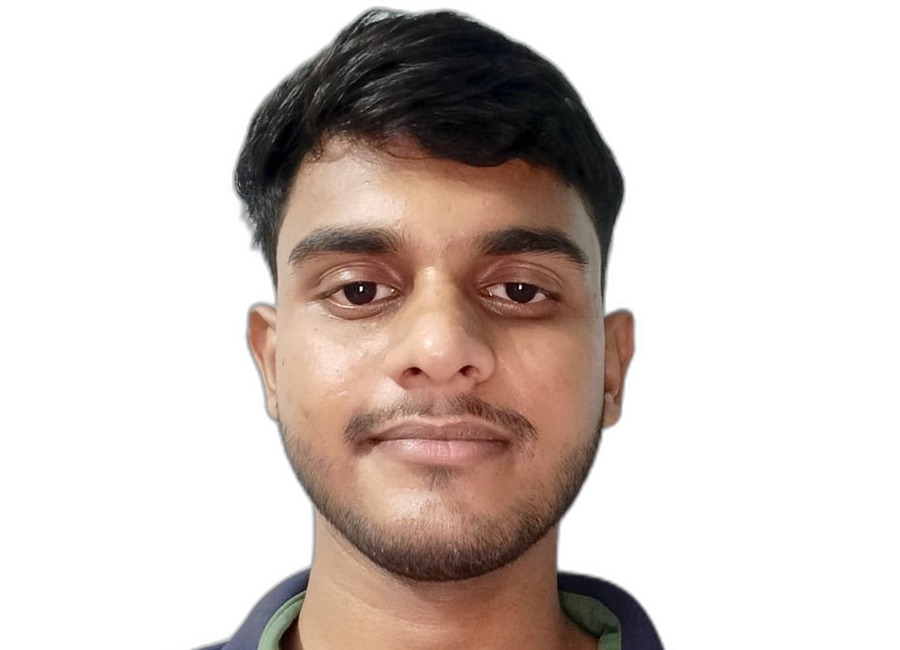
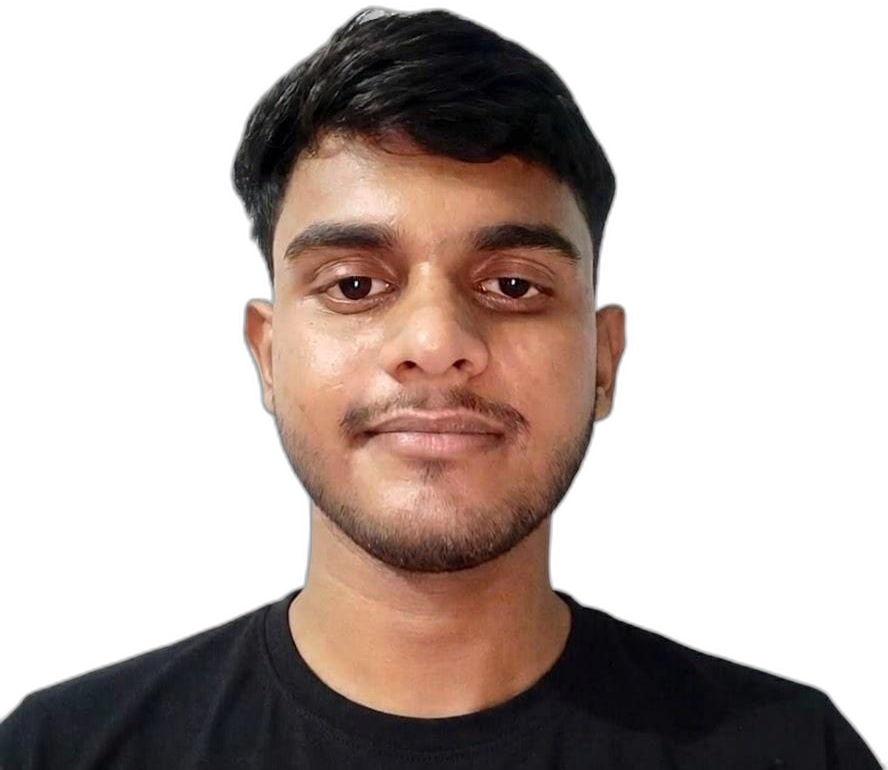
Fix section padding/insets, resize hero photo, wider nav spacing, new profile photo

diff --git a/portfolio/style.css b/portfolio/style.css
@@ -228,7 +228,7 @@ img { max-width: 100%; display: block; }
 .nav2-inner {
   max-width: var(--max-wide);
   margin: 0 auto;
-  padding: 1rem 1.5rem;
+  padding: 1rem clamp(1.5rem, 4.5vw, 4.5rem);
   display: flex;
   align-items: center;
   justify-content: space-between;
@@ -258,8 +258,8 @@ img { max-width: 100%; display: block; }
 }
 .nav2-links {
   display: flex;
-  gap: 3.25rem; /* was 2rem — reference has noticeably more breathing
-    room between each nav item */
+  gap: 5rem; /* was 3.25rem — still noticeably tighter than the
+    reference's spacing */
   font-size: 0.92rem;
   font-weight: 500;
 }
@@ -361,7 +361,7 @@ img { max-width: 100%; display: block; }
   position: relative;
   z-index: 1;
   background: var(--hero-bg);
-  padding: 4rem 1.5rem 4.5rem;
+  padding: 4rem clamp(1.5rem, 4.5vw, 4.5rem) 4.5rem;
   text-align: center;
   overflow: hidden;
 }
@@ -421,8 +421,16 @@ img { max-width: 100%; display: block; }
   top: 42%;
   left: 50%;
   transform: translateX(-50%);
-  width: calc(var(--name-fit-size, 6rem) * 3);
-  max-width: 340px;
+  /* Height-driven sizing (was width-driven with object-fit:contain) —
+     that capped out at a fairly short box because the source photo's
+     own aspect ratio is wider than tall. Sizing by height + cropping
+     the sides with object-fit:cover instead lets the photo actually
+     reach down toward the role text like the reference, independent
+     of the source image's natural proportions. */
+  height: calc(var(--name-fit-size, 6rem) * 3.7);
+  width: calc(var(--name-fit-size, 6rem) * 2.85);
+  max-height: 480px;
+  max-width: 330px;
   z-index: 3; /* above the name text within this same stacking
     context — hero2-body (a later sibling, also z-index: 2) still
     paints on top of this whole section wherever they overlap, by
@@ -436,9 +444,10 @@ img { max-width: 100%; display: block; }
 }
 .hero2-photo-img {
   width: 100%;
-  height: auto;
+  height: 100%;
   display: block;
-  object-fit: contain;
+  object-fit: cover;
+  object-position: top center;
 }
 .hero2-photo-img-gray {
   position: relative;
@@ -455,7 +464,12 @@ img { max-width: 100%; display: block; }
   mask-image: radial-gradient(circle 90px at var(--reveal-x, -9999px) var(--reveal-y, -9999px), black 55%, transparent 100%);
 }
 @media (max-width: 620px) {
-  .hero2-photo { width: calc(var(--name-fit-size, 4rem) * 2.8); max-width: 220px; }
+  .hero2-photo {
+    height: calc(var(--name-fit-size, 4rem) * 3.4);
+    width: calc(var(--name-fit-size, 4rem) * 2.6);
+    max-height: 280px;
+    max-width: 215px;
+  }
   /* Touch devices have no hover/cursor — show full color instead of
      leaving the photo permanently grayscale with no way to reveal it */
   .hero2-photo-img-gray { display: none; }
@@ -577,7 +591,7 @@ img { max-width: 100%; display: block; }
   position: relative;
   z-index: 1;
   background: var(--hero-bg);
-  padding: 5rem 1.5rem 6rem;
+  padding: 5rem clamp(1.5rem, 4.5vw, 4.5rem) 6rem;
 }
 .work2-head {
   max-width: var(--max-wide);
@@ -812,7 +826,7 @@ img { max-width: 100%; display: block; }
   position: relative;
   z-index: 1;
   background: var(--hero-bg);
-  padding: 1rem 1.5rem 6rem;
+  padding: 1rem clamp(1.5rem, 4.5vw, 4.5rem) 6rem;
 }
 .log2-head {
   max-width: var(--max-wide);
@@ -919,7 +933,7 @@ img { max-width: 100%; display: block; }
   position: relative;
   z-index: 1;
   background: var(--hero-bg);
-  padding: 1rem 1.5rem 6rem;
+  padding: 1rem clamp(1.5rem, 4.5vw, 4.5rem) 6rem;
 }
 .about2-head {
   max-width: var(--max-wide);
@@ -1012,7 +1026,7 @@ img { max-width: 100%; display: block; }
   position: relative;
   z-index: 1;
   background: var(--hero-bg);
-  padding: 6rem 1.5rem 5rem;
+  padding: 6rem clamp(1.5rem, 4.5vw, 4.5rem) 5rem;
   text-align: center;
 }
 .cta2-badge {
@@ -1212,7 +1226,7 @@ button.work2-media {
   display: none;
   align-items: center;
   justify-content: center;
-  padding: 4rem 1.5rem;
+  padding: 4rem clamp(1.5rem, 4.5vw, 4.5rem);
 }
 .lightbox.is-open { display: flex; }
 
